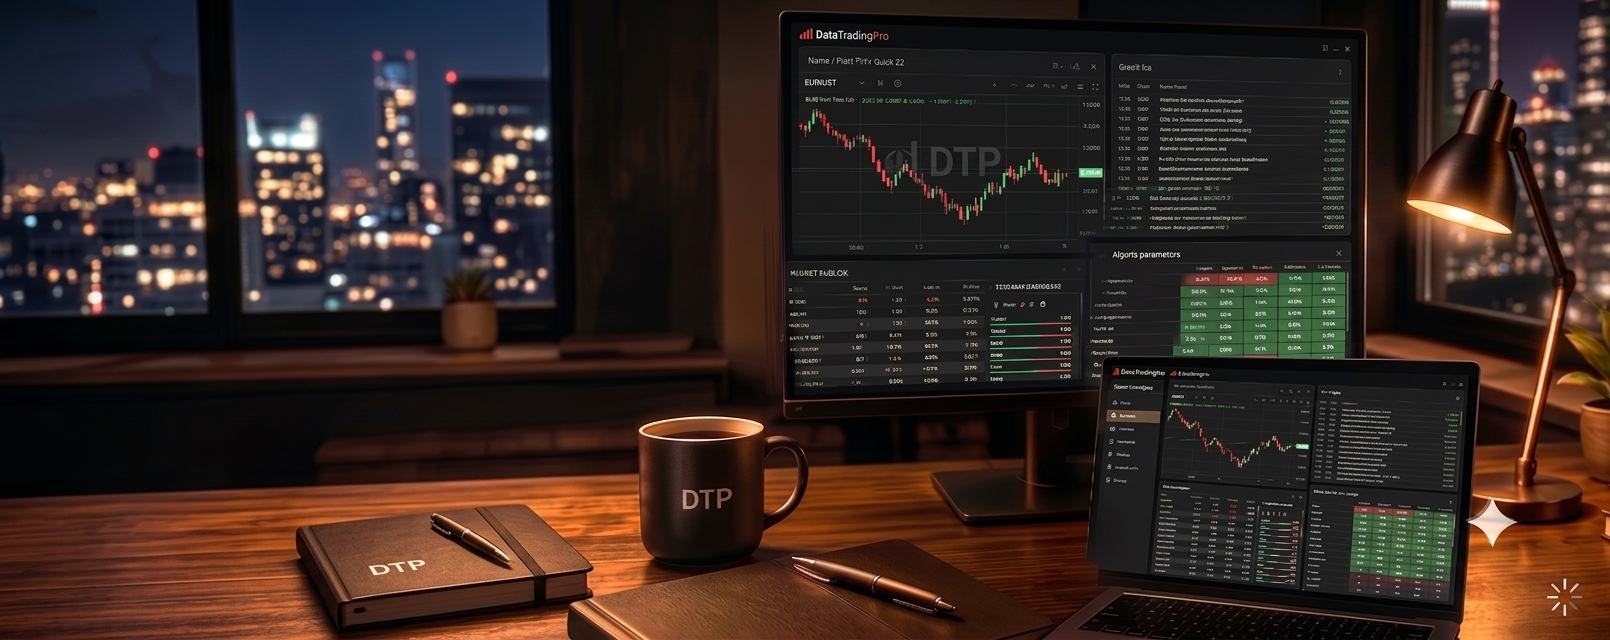
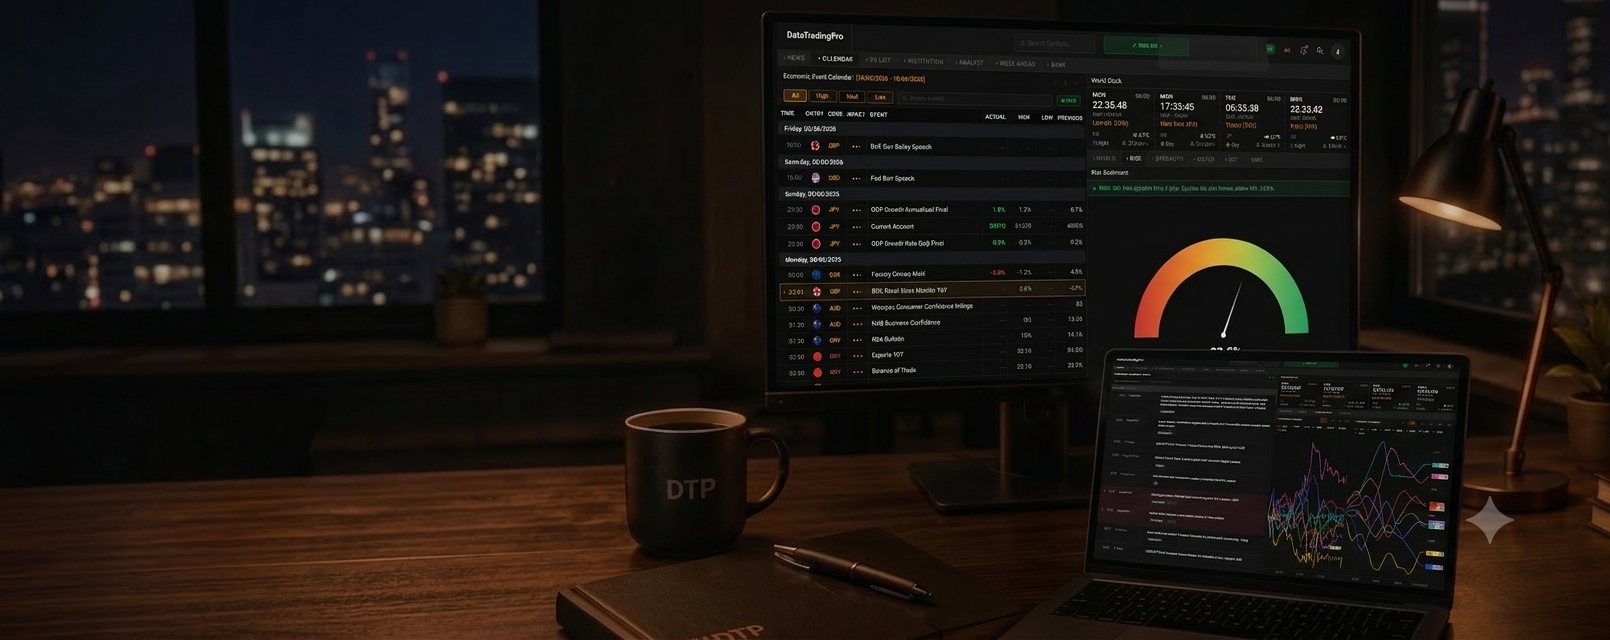
Landing: nouvelle image hero (scène desk DTP générée) en plein écran + optimisée
- Remplace l'ancien mockup doux par la vraie scène desk fournie (écran
  DataTradingPro + jauge sentiment, mug DTP, laptop strength charts, skyline).
- PNG 1,7 Mo recompressé en JPEG 114 Ko (1610x640, via canvas headless) -> rapide.
- Traitement plein écran (cover, center) + dégradé gauche->droite : texte lisible
  à gauche, scène entièrement visible à droite. Cache-bust ?v=2.
- Vérifié desktop + mobile (texte lisible, aucun débordement horizontal).

diff --git a/landing/index.html b/landing/index.html
@@ -142,9 +142,9 @@
 
   /* ── HERO (clone PMT : texte à gauche + image desk en fond) ── */
   .hero{position:relative;overflow:hidden;border-bottom:1px solid var(--line);background:#070709}
-  .hero-photo{position:absolute;top:0;bottom:0;right:0;width:100%;z-index:0;background:#070709 url("/img/hero-terminal.jpg?v=1") center right/cover no-repeat;opacity:1;pointer-events:none;-webkit-mask-image:linear-gradient(90deg,transparent 0%,rgba(0,0,0,.45) 9%,#000 20%);mask-image:linear-gradient(90deg,transparent 0%,rgba(0,0,0,.45) 9%,#000 20%)}
+  .hero-photo{position:absolute;top:0;bottom:0;right:0;width:100%;z-index:0;background:#070709 url("/img/hero-terminal.jpg?v=2") center center/cover no-repeat;opacity:1;pointer-events:none}
   .hero{position:relative;width:100%;min-height:620px;display:flex;align-items:center;overflow:hidden;background:#070709;border-bottom:1px solid var(--line)}
-  .hero-fade{position:absolute;inset:0;z-index:1;pointer-events:none;background:linear-gradient(90deg,#070709 0%,rgba(7,7,9,.86) 24%,rgba(7,7,9,0) 47%)}
+  .hero-fade{position:absolute;inset:0;z-index:1;pointer-events:none;background:linear-gradient(90deg,#070709 0%,rgba(7,7,9,.92) 18%,rgba(7,7,9,.6) 42%,rgba(7,7,9,.2) 64%,rgba(7,7,9,0) 85%)}
   .hero .hero-inner{position:relative;z-index:2;width:100%;display:grid;grid-template-columns:1fr;gap:32px;align-items:center}
   .hero-copy{max-width:600px;display:flex;flex-direction:column;align-items:flex-start;gap:19px;padding:clamp(48px,7vw,76px) 0}
   .hero-eyebrow{display:inline-flex;align-items:center;gap:8px;font-size:12px;font-weight:700;letter-spacing:.08em;text-transform:uppercase;color:var(--orange);background:rgba(247,148,29,.1);border:1px solid rgba(247,148,29,.22);padding:5px 12px;border-radius:6px}
@@ -155,7 +155,7 @@
   .hero-cta .btn{padding:13px 24px;font-size:14.5px}
   .hero-trust{display:flex;flex-wrap:wrap;gap:8px 18px;font-size:12.5px;color:var(--text3);margin-top:2px}
   .hero-trust .ok{display:inline-flex;align-items:center;gap:6px;color:var(--green)}
-  @media(min-width:768px){.hero-photo{width:54%}.hero .hero-inner{grid-template-columns:minmax(0,1fr) minmax(0,46%);gap:40px}.hero-copy{padding-right:24px}}
+  @media(min-width:768px){.hero .hero-inner{grid-template-columns:minmax(0,1fr) minmax(0,42%);gap:40px}.hero-copy{padding-right:24px}}
   @media(max-width:767px){.hero{min-height:560px}.hero-photo{opacity:.72;-webkit-mask-image:linear-gradient(to bottom,#000 0,#000 30%,transparent 88%);mask-image:linear-gradient(to bottom,#000 0,#000 30%,transparent 88%)}.hero-fade{background:linear-gradient(to bottom,rgba(7,7,9,.45) 0%,rgba(7,7,9,.8) 62%,#070709 100%)}}
   .hero-statband{background:#070709;border-bottom:1px solid var(--line)}
   .hero-statband .hs-grid{display:grid;grid-template-columns:repeat(4,1fr);gap:0;background:transparent;max-width:var(--maxw);margin:0 auto;padding:0 clamp(16px,4vw,24px)}